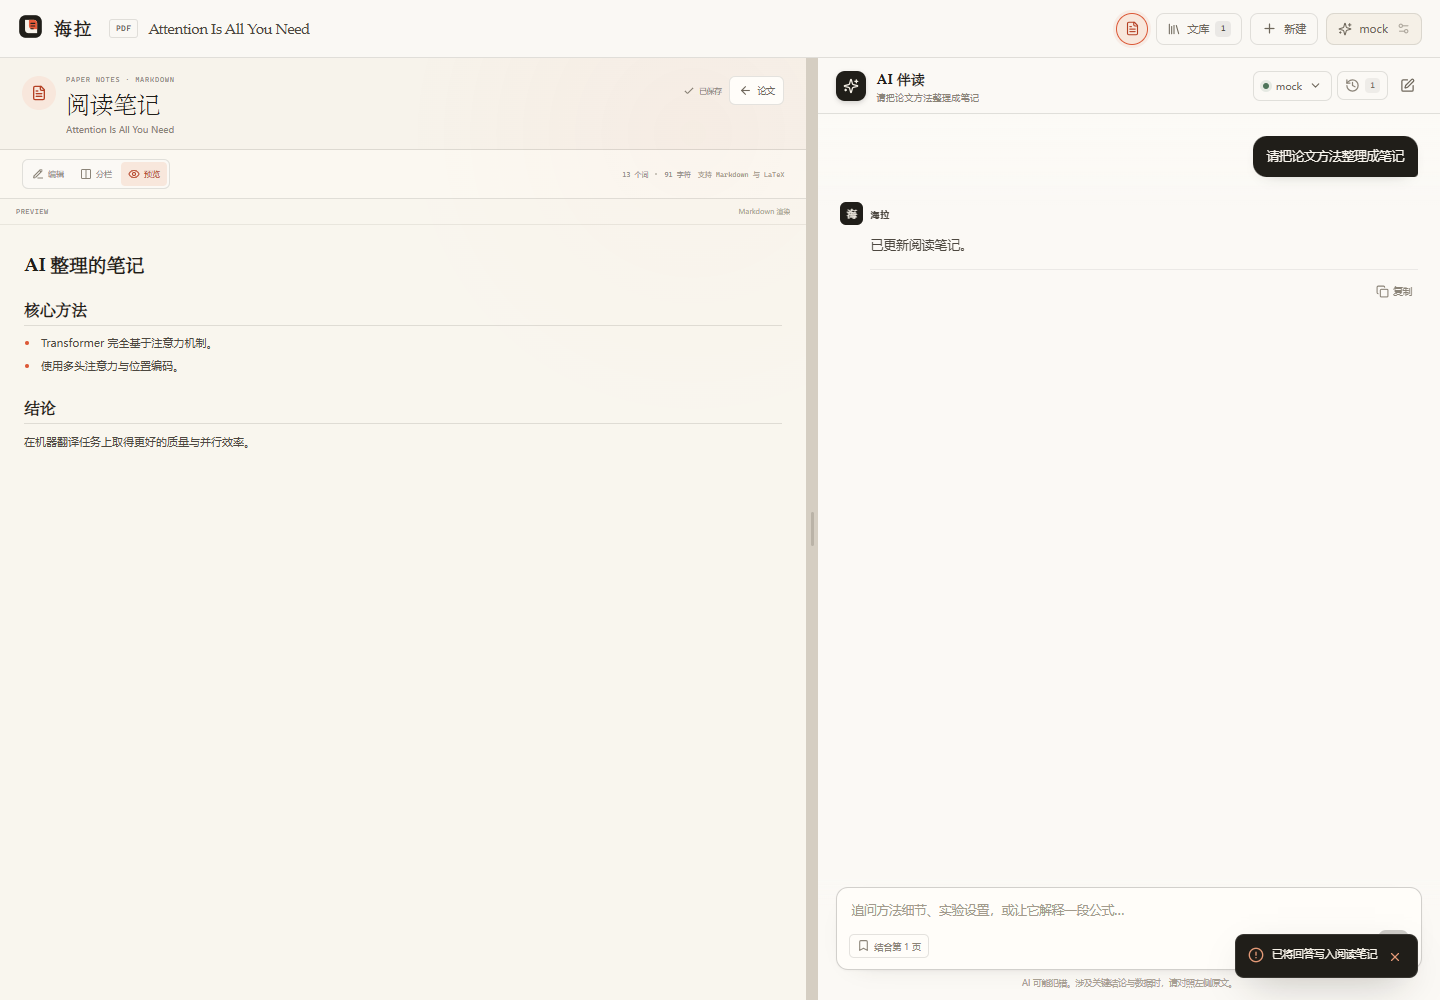
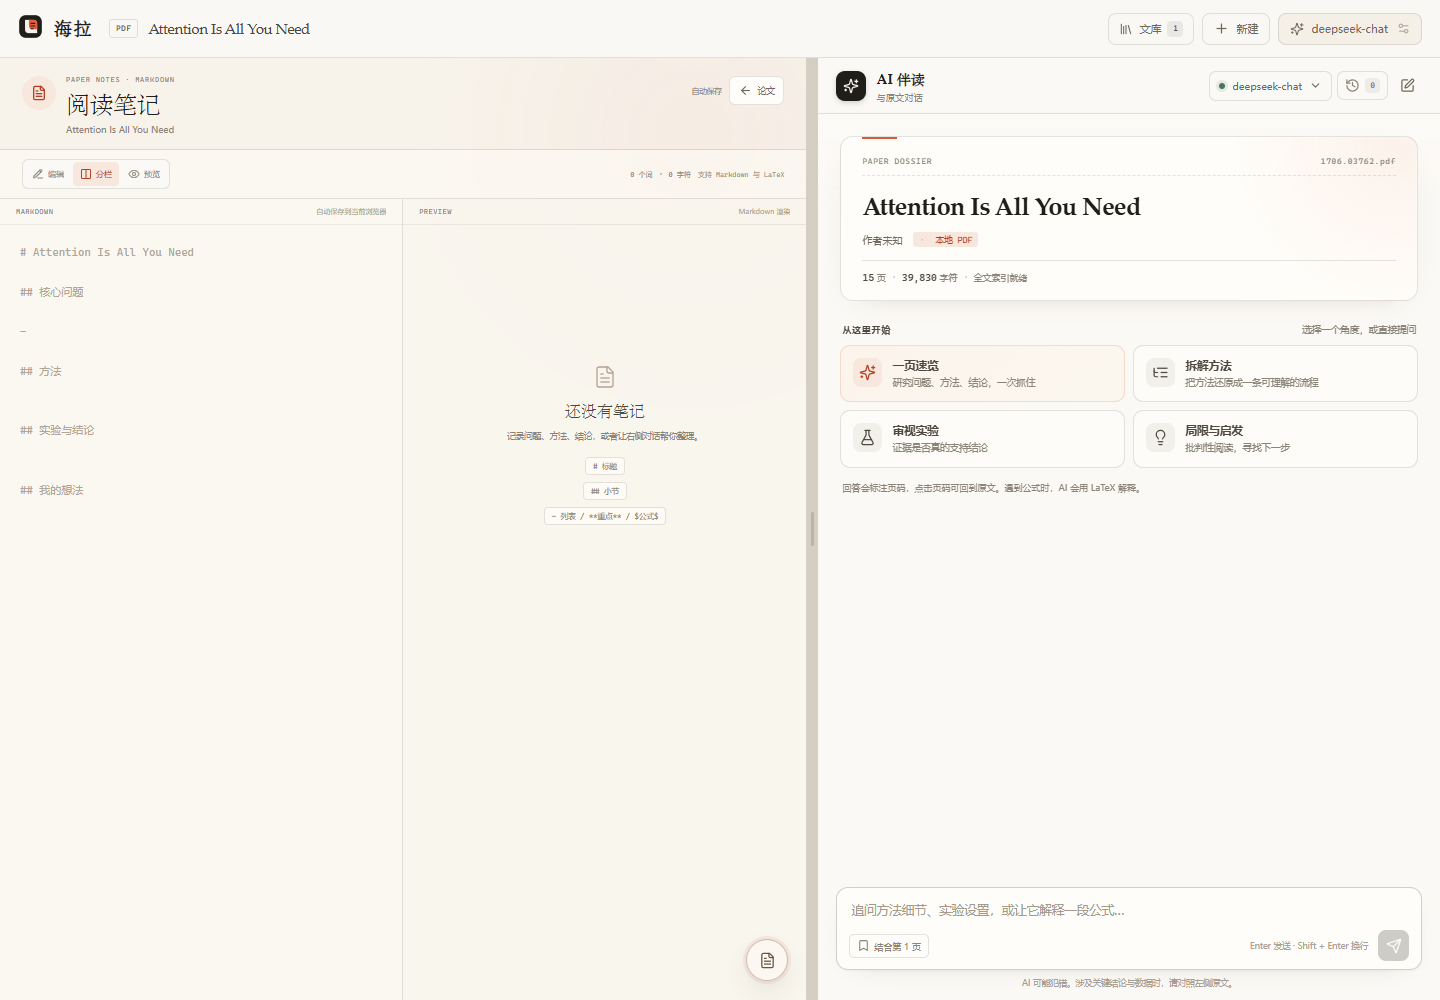
style: move notes button to reader corner

diff --git a/src/App.tsx b/src/App.tsx
@@ -2115,20 +2115,6 @@ export default function App() {
         <div className="header-actions">
           <button
             type="button"
-            className={`notes-toggle-button ${notesOpen ? 'is-active' : ''}`}
-            onClick={() => {
-              if (notesOpen) flushNoteSave();
-              setNotesOpen((open) => !open);
-              setMobileTab('paper');
-            }}
-            aria-pressed={notesOpen}
-            aria-label="阅读笔记"
-            title="阅读笔记"
-          >
-            <FileText size={15} strokeWidth={1.8} />
-          </button>
-          <button
-            type="button"
             className="header-library-button"
             onClick={handleOpenLibrary}
             title="我的文库"
@@ -2220,6 +2206,22 @@ export default function App() {
             }
           />
           )}
+          <button
+            type="button"
+            className={`notes-toggle-button pdf-notes-toggle ${
+              notesOpen ? 'is-active' : ''
+            }`}
+            onClick={() => {
+              if (notesOpen) flushNoteSave();
+              setNotesOpen((open) => !open);
+              setMobileTab('paper');
+            }}
+            aria-pressed={notesOpen}
+            aria-label="阅读笔记"
+            title={notesOpen ? '返回论文原文' : '阅读笔记'}
+          >
+            <FileText size={17} strokeWidth={1.8} />
+          </button>
         </section>
         <div
           className="splitter"

diff --git a/src/styles.css b/src/styles.css
@@ -1008,6 +1008,38 @@ a {
   box-shadow: 0 0 0 3px rgba(220, 89, 55, 0.08);
 }
 
+.notes-toggle-button.pdf-notes-toggle {
+  position: absolute;
+  right: 18px;
+  bottom: 18px;
+  z-index: 24;
+  width: 42px;
+  height: 42px;
+  border-color: rgba(54, 43, 28, 0.26);
+  background: rgba(252, 249, 243, 0.95);
+  color: #615544;
+  box-shadow:
+    0 12px 30px -12px rgba(32, 24, 14, 0.52),
+    0 2px 7px rgba(32, 24, 14, 0.1);
+  backdrop-filter: blur(10px);
+}
+
+.notes-toggle-button.pdf-notes-toggle:hover {
+  border-color: rgba(220, 89, 55, 0.55);
+  background: #fffdf8;
+  color: var(--accent-dark);
+  transform: translateY(-1px);
+}
+
+.notes-toggle-button.pdf-notes-toggle.is-active {
+  border-color: var(--accent);
+  background: var(--accent-soft);
+  color: var(--accent-dark);
+  box-shadow:
+    0 12px 30px -12px rgba(32, 24, 14, 0.42),
+    0 0 0 3px rgba(220, 89, 55, 0.1);
+}
+
 .new-paper-button,
 .header-model {
   display: inline-flex;
@@ -9428,6 +9460,13 @@ body.is-resizing * {
   .notes-toggle-button {
     width: 30px;
     height: 30px;
+  }
+
+  .notes-toggle-button.pdf-notes-toggle {
+    right: 13px;
+    bottom: 13px;
+    width: 40px;
+    height: 40px;
   }
 
   .paper-notes-actions {
